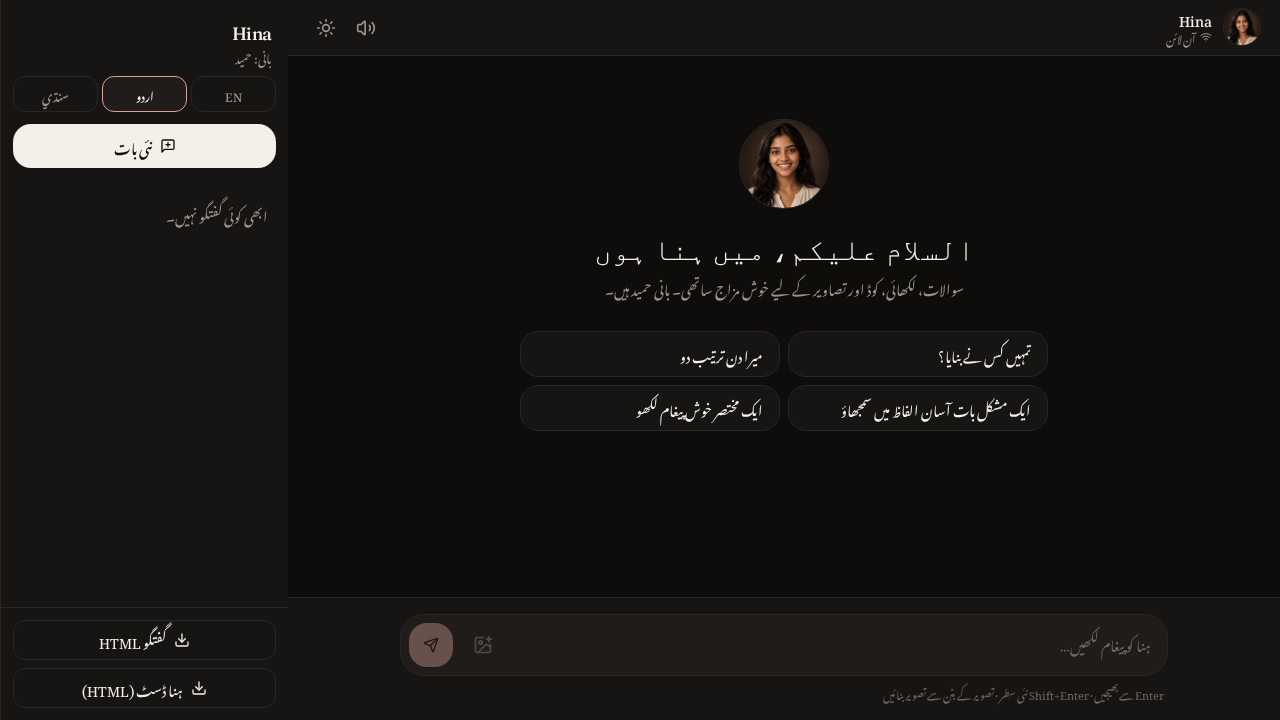
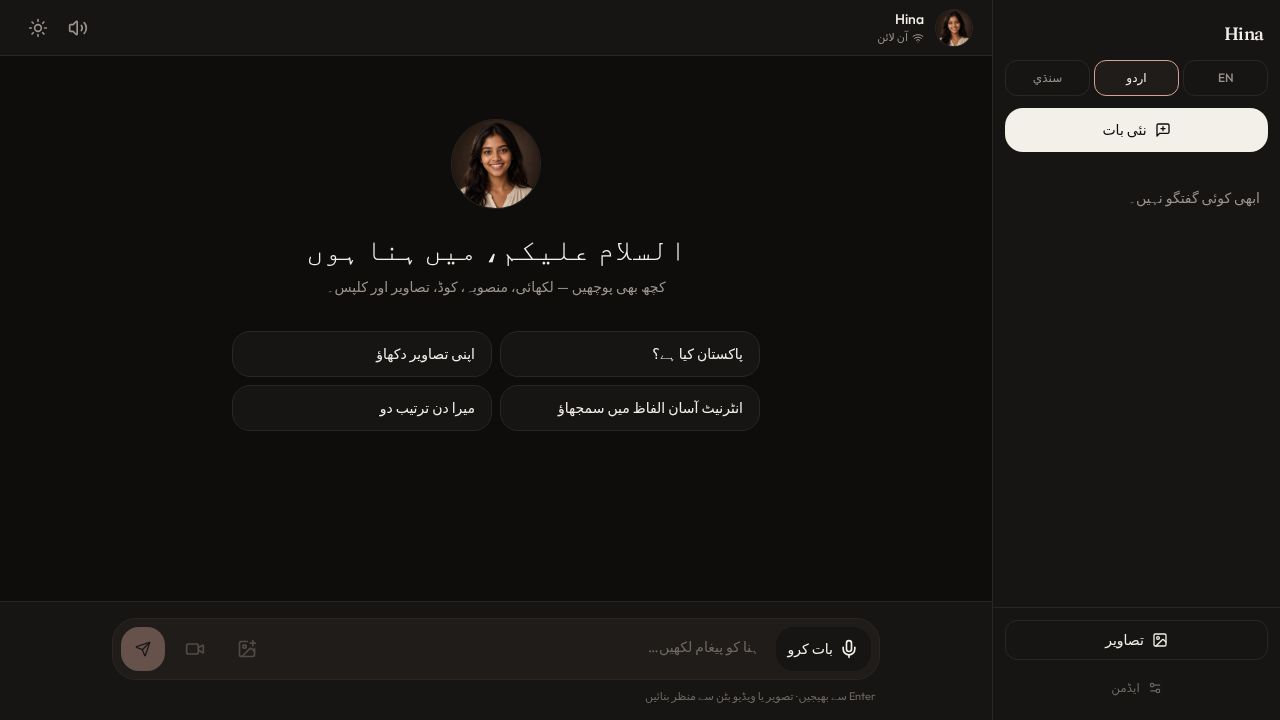
Export from Grok

diff --git a/src/lib/hina/api.ts b/src/lib/hina/api.ts
@@ -89,24 +89,21 @@ function forUrduVoice(text: string, lang: Lang) {
 }
 
 function speechChunks(text: string) {
-  const clean = text.replace(/\s+/g, " ").trim().slice(0, 700);
+  const clean = text.replace(/\s+/g, " ").trim().slice(0, 420);
+  if (clean.length <= 180) return [clean];
   const sentences = clean.split(/(?<=[۔.!?])\s+/).map((s) => s.trim()).filter(Boolean);
   const out: string[] = [];
+  let buf = "";
   for (const sentence of sentences.length ? sentences : [clean]) {
-    if (sentence.length <= 140) {
-      out.push(sentence);
+    if ((buf + " " + sentence).trim().length <= 180) {
+      buf = (buf + " " + sentence).trim();
       continue;
     }
-    let rest = sentence;
-    while (rest.length > 140) {
-      let cut = rest.lastIndexOf(" ", 140);
-      if (cut < 30) cut = 140;
-      out.push(rest.slice(0, cut).trim());
-      rest = rest.slice(cut).trim();
-    }
-    if (rest) out.push(rest);
+    if (buf) out.push(buf);
+    buf = sentence.length <= 180 ? sentence : sentence.slice(0, 180);
   }
-  return out.slice(0, 5);
+  if (buf) out.push(buf);
+  return out.slice(0, 3);
 }
 
 async function fetchUrduMp3(piece: string) {

diff --git a/src/lib/hina/i18n.ts b/src/lib/hina/i18n.ts
@@ -56,7 +56,7 @@ export const t = {
     listen: "سنیں",
     talk: "بات کرو",
     listening: "سن رہی ہوں…",
-    mic: "براؤزر میں مائیکروفون کی اجازت دیں، پھر بات کرو دبائیں۔",
+    mic: "مائیک کی اجازت دیں، پھر دوبارہ بات کرو۔",
     hello: "السلام علیکم، میں ہنا ہوں",
     tagline: "کچھ بھی پوچھیں — لکھائی، منصوبہ، کوڈ، تصاویر اور کلپس۔",
     prompts: [
@@ -93,7 +93,7 @@ export const t = {
     listen: "ٻڌو",
     talk: "ڳالهايو",
     listening: "ٻڌي رهي…",
-    mic: "براؤزر ۾ مائڪروفون جي اجازت ڏيو، پوءِ ڳالهايو دٻايو.",
+    mic: "مائيڪ جي اجازت ڏيو، پوءِ ٻيهر ڳالهايو.",
     hello: "سلام، مان هناءَ آهيان",
     tagline: "ڪجهه به پڇو — لکڻ، رٿا، ڪوڊ، تصويرون ۽ ڪلپس.",
     prompts: [

diff --git a/src/components/hina/composer.tsx b/src/components/hina/composer.tsx
@@ -103,8 +103,11 @@ export function Composer({
             {sending ? <Square className="size-4" /> : <Send className="size-4" />}
           </button>
         </div>
-        <p className="hidden px-1 text-[11px] text-subtle sm:block">{copy.hint}</p>
-        {micNote ? <p className="px-1 text-[11px] leading-snug break-words text-danger">{micNote}</p> : null}
+        {micNote ? (
+          <p className="line-clamp-2 px-1 text-[11px] leading-snug text-muted">{micNote}</p>
+        ) : (
+          <p className="hidden px-1 text-[11px] text-subtle sm:block">{copy.hint}</p>
+        )}
       </div>
     </form>
   );

diff --git a/src/components/hina/sidebar.tsx b/src/components/hina/sidebar.tsx
@@ -32,7 +32,7 @@ export function Sidebar({
       />
       <aside
         className={cn(
-          "flex h-full w-72 shrink-0 flex-col border-border bg-surface",
+          "flex h-dvh w-64 shrink-0 flex-col border-border bg-surface md:w-72",
           "max-md:fixed max-md:inset-y-0 max-md:z-40 max-md:w-[min(18.5rem,88vw)]",
           lang === "en" ? "border-r max-md:left-0" : "border-l max-md:right-0",
           open ? "max-md:translate-x-0" : lang === "en" ? "max-md:-translate-x-full" : "max-md:translate-x-full",

diff --git a/src/lib/hina/voice.ts b/src/lib/hina/voice.ts
@@ -323,10 +323,10 @@ function sentences(text: string) {
 }
 
 function rateValue() {
-  const speed = loadLive().rate === "slow" ? 0.94 : loadLive().rate === "fast" ? 1.06 : 1;
-  const speaker = loadLive().speaker;
-  const base = speaker === "male" ? 0.9 : speaker === "female" ? 1.03 : 1;
-  return base * speed;
+  const speed = loadLive().rate;
+  if (speed === "slow") return 0.92;
+  if (speed === "fast") return 1.05;
+  return 1;
 }
 
 let clip: HTMLAudioElement | null = null;

diff --git a/src/components/hina/markdown.tsx b/src/components/hina/markdown.tsx
@@ -27,7 +27,7 @@ function renderInline(text: string) {
 export function MessageBody({ text, className }: { text: string; className?: string }) {
   const blocks = text.split(/```/);
   return (
-    <div className={cn("space-y-3 text-sm leading-relaxed text-fg", className)}>
+    <div className={cn("hina-copy space-y-3 text-sm leading-relaxed text-fg", className)}>
       {blocks.map((block, i) => {
         if (i % 2 === 1) {
           const nl = block.indexOf("\n");

diff --git a/src/styles.css b/src/styles.css
@@ -63,10 +63,10 @@ html[data-theme="light"] {
     font-family: var(--font-naskh);
   }
 
-  html[data-lang="ur"] body,
-  html[data-lang="sd"] body {
+  html[data-lang="ur"] .hina-copy,
+  html[data-lang="sd"] .hina-copy {
     font-family: var(--font-naskh);
-    line-height: 1.8;
+    line-height: 1.85;
   }
 
   @media (prefers-reduced-motion: reduce) {

diff --git a/src/routes/index.tsx b/src/routes/index.tsx
@@ -249,7 +249,7 @@ export function Home({ embed = false }: { embed?: boolean }) {
   }
 
   return (
-    <div className="flex h-full min-h-0 overflow-hidden bg-bg text-fg">
+    <div className="flex h-dvh min-h-0 overflow-hidden bg-bg text-fg">
       {!embed && (
       <Sidebar
         open={sidebarOpen}
